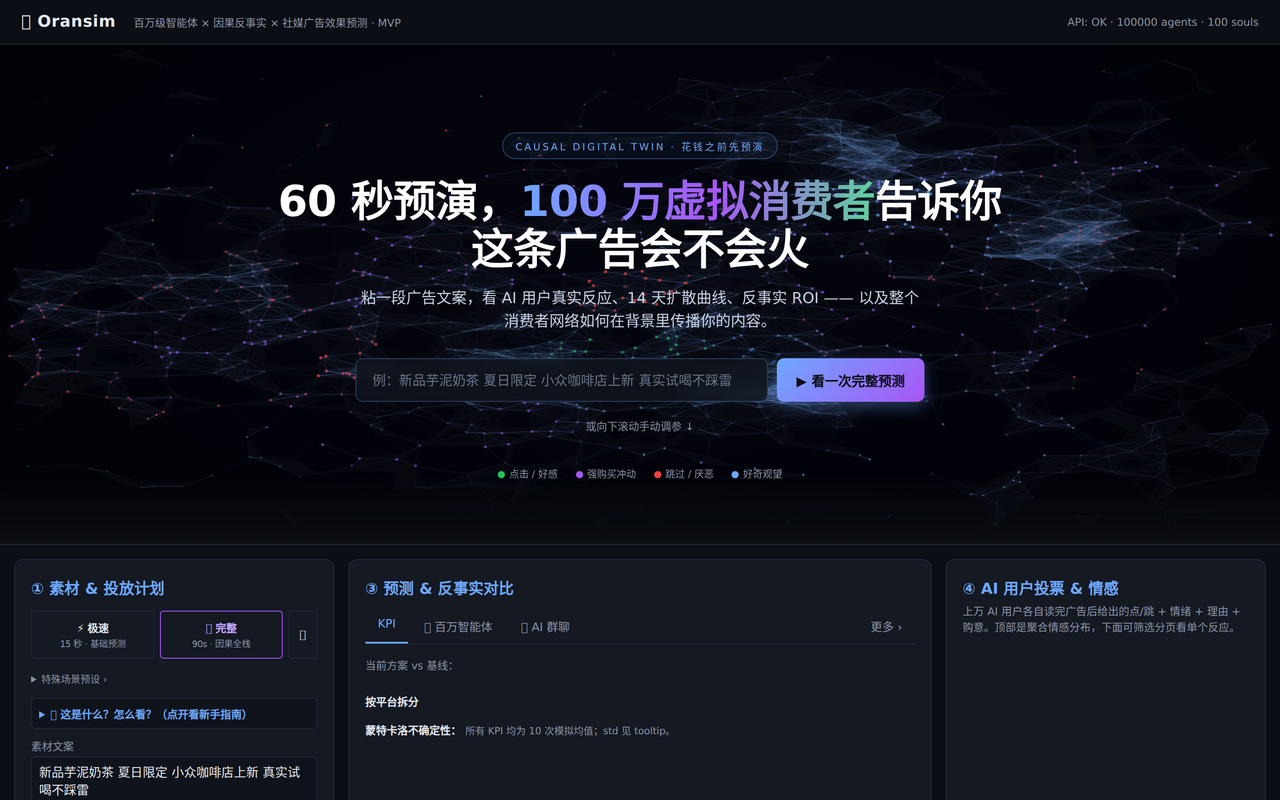
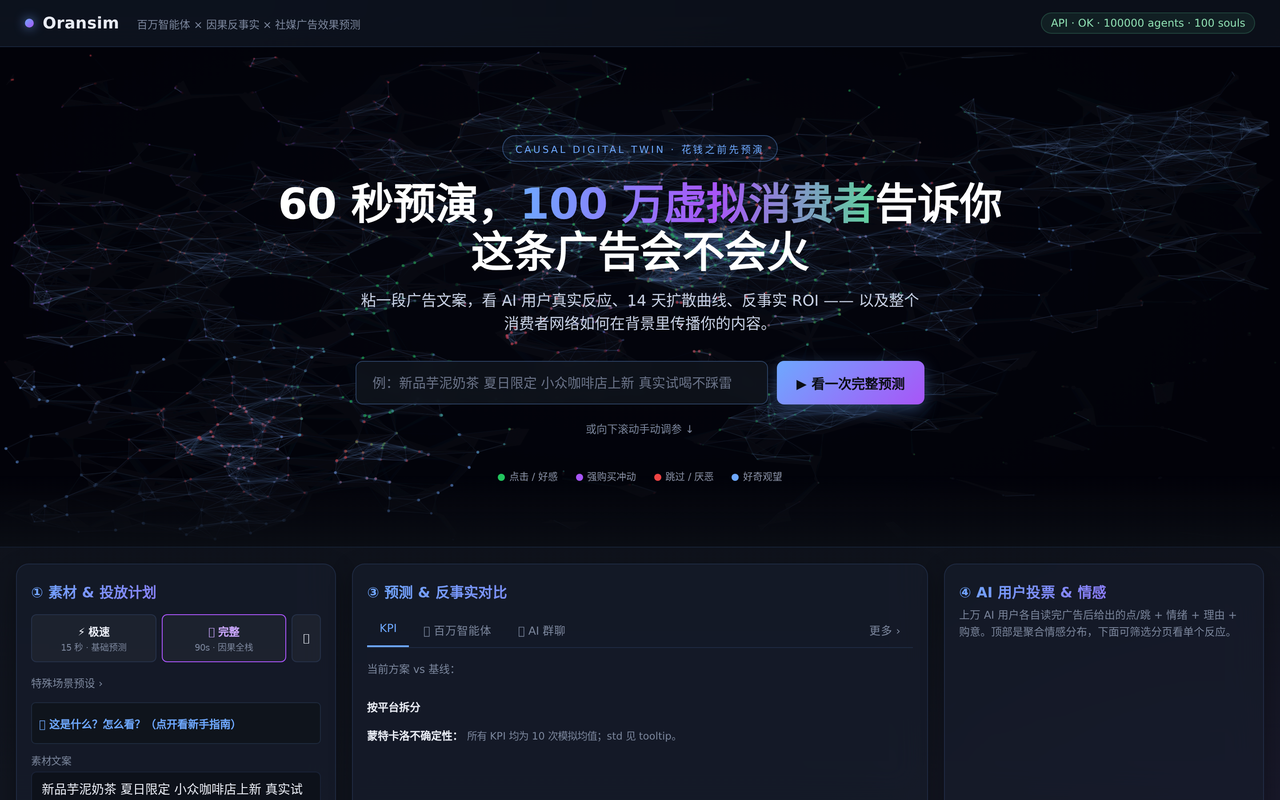
前端 fancy CSS + 叙事版舆论波 port 到开源版
和内部版看齐：glass panel + 渐变标题 + logo dot + API pill + 按钮 hover 抬升 + 滑块发光 + KPI 渐变数字。animateSociety 从 8 秒单调版改成 12 秒三幕剧（种子/一级/级联）+ 实时触达计数。顺便重截了 3 张 README 截图。

diff --git a/frontend/index.html b/frontend/index.html
@@ -6,56 +6,225 @@
 <meta name="viewport" content="width=device-width,initial-scale=1">
 <style>
   :root {
-    --bg:#0b0e14; --panel:#141922; --border:#222a38; --fg:#e6e8ee;
-    --muted:#8b93a7; --accent:#6ea8fe; --good:#5ed39b; --bad:#ff7a85; --warn:#ffc857;
+    --bg:#0a0d14; --bg-2:#11151f;
+    --panel: rgba(22, 28, 42, 0.72);
+    --panel-solid:#141a28;
+    --border: rgba(110, 168, 254, 0.12);
+    --border-strong: rgba(110, 168, 254, 0.25);
+    --fg:#e9ecf4; --fg-dim:#c3cad9;
+    --muted:#7b869c;
+    --accent:#6ea8fe; --accent-2:#a855f7;
+    --good:#22c55e; --bad:#ef4444; --warn:#f5b542;
+    --shadow-sm: 0 2px 8px rgba(0,0,0,.25);
+    --shadow-md: 0 8px 24px rgba(0,0,0,.35);
+    --shadow-glow: 0 0 40px rgba(110,168,254,.15);
+    --r-lg: 14px; --r-md: 10px; --r-sm: 6px;
+    --grad-primary: linear-gradient(135deg, #6ea8fe 0%, #a855f7 100%);
   }
   * { box-sizing:border-box; }
-  body { margin:0; font-family: -apple-system,"PingFang SC",BlinkMacSystemFont,"Segoe UI",sans-serif;
-         background:var(--bg); color:var(--fg); font-size:14px; }
-  header { padding:14px 24px; border-bottom:1px solid var(--border); display:flex; align-items:center; gap:20px; }
-  header h1 { font-size:18px; margin:0; font-weight:600; letter-spacing:0.5px; }
-  header .tag { color:var(--muted); font-size:12px; }
-  main { display:grid; grid-template-columns: 360px 1fr 360px; gap:16px; padding:16px; height: calc(100vh - 54px); overflow:hidden; }
-  .panel { background:var(--panel); border:1px solid var(--border); border-radius:10px; padding:18px; overflow:auto; }
-  .panel h3 { margin:0 0 14px; font-size:17px; color:var(--accent); font-weight:600; letter-spacing:0.1px; }
-  .panel h3 + .hint, .panel h3 + .sub { font-size:12px; color:var(--muted); margin-top:-8px; margin-bottom:10px; }
-  label { display:block; margin:8px 0 4px; color:var(--muted); font-size:12px; }
-  input[type=text], textarea, select, input[type=number] {
-    width:100%; background:#0f141c; color:var(--fg); border:1px solid var(--border);
-    border-radius:4px; padding:6px 8px; font: inherit;
+  html, body { margin:0; padding:0; }
+  body {
+    font-family: -apple-system, "PingFang SC", BlinkMacSystemFont, "Segoe UI", "Inter", sans-serif;
+    font-size: 14px;
+    color: var(--fg);
+    background:
+      radial-gradient(1200px 800px at 10% -10%, rgba(110,168,254,.08), transparent 60%),
+      radial-gradient(900px 700px at 100% 110%, rgba(168,85,247,.06), transparent 60%),
+      linear-gradient(180deg, var(--bg) 0%, var(--bg-2) 100%);
+    background-attachment: fixed;
+    min-height: 100vh;
   }
-  textarea { resize:vertical; min-height:64px; }
-  button { background:var(--accent); color:#0b0e14; border:0; border-radius:4px;
-           padding:8px 14px; font-weight:600; cursor:pointer; }
-  button:hover { background:#9ec1ff; }
-  button.secondary { background:transparent; color:var(--fg); border:1px solid var(--border); }
-  .kpi-grid { display:grid; grid-template-columns:repeat(3,1fr); gap:8px; margin:10px 0; }
-  .kpi { background:#0f141c; padding:10px; border-radius:6px; text-align:center; }
-  .kpi .v { font-size:20px; font-weight:700; }
-  .kpi .l { font-size:11px; color:var(--muted); margin-top:3px; }
-  .kpi .d { font-size:11px; margin-top:2px; }
-  .delta-up { color:var(--good); }
-  .delta-down { color:var(--bad); }
-  .slider-row { display:grid; grid-template-columns: 70px 1fr 50px; gap:8px; align-items:center; margin:8px 0; }
-  input[type=range] { width:100%; }
-  .soul { background:#0f141c; padding:8px 10px; margin:6px 0; border-radius:6px; border-left:3px solid var(--accent); font-size:13px; }
-  .soul.skip { border-left-color:var(--bad); }
-  .soul .oneliner { color:var(--muted); font-size:11px; margin-bottom:3px; }
-  .soul .reason { color:var(--fg); }
-  .soul .comment { color:var(--warn); font-style:italic; font-size:12px; margin-top:2px; }
-  svg { width:100%; height:100%; }
-  .node rect { fill:#0f141c; stroke:var(--border); stroke-width:1; }
-  .node.intervenable rect { stroke:var(--accent); }
-  .node text { fill:var(--fg); font-size:11px; }
-  .edge { stroke:var(--border); stroke-width:1.2; fill:none; marker-end:url(#arr); }
-  .badge { display:inline-block; background:#23304a; color:var(--accent); padding:2px 6px; border-radius:3px; font-size:11px; }
-  .seg { font-size:12px; padding:4px 6px; background:#0f141c; border-radius:4px; margin:3px 0; display:flex; justify-content:space-between; }
-  .tab-row { display:flex; gap:4px; margin-bottom:14px; border-bottom:1px solid var(--border); }
-  .tab { padding:8px 14px; cursor:pointer; color:var(--muted); border-bottom:2px solid transparent; font-size:13px; font-weight:500; transition:color 120ms ease; }
-  .tab:hover { color:var(--fg); }
-  .tab.active { color:var(--accent); border-bottom-color:var(--accent); }
-  .hint { color:var(--muted); font-size:11px; margin-top:4px; line-height:1.5; }
-  #log { font-size:11px; color:var(--muted); max-height:160px; overflow:auto; font-family: Menlo, monospace; padding:6px; background:#0b0e14; border-radius:4px; margin-top:6px; }
+  header {
+    padding: 14px 28px; display: flex; align-items: center; gap: 20px;
+    backdrop-filter: blur(14px) saturate(1.4);
+    -webkit-backdrop-filter: blur(14px) saturate(1.4);
+    background: rgba(12, 16, 26, 0.72);
+    border-bottom: 1px solid var(--border);
+    position: sticky; top: 0; z-index: 100;
+  }
+  header h1 {
+    font-size: 18px; margin: 0; font-weight: 600; letter-spacing: 0.2px;
+    display: flex; align-items: center; gap: 10px;
+  }
+  .logo-dot {
+    width: 10px; height: 10px; border-radius: 50%;
+    background: var(--grad-primary);
+    box-shadow: 0 0 12px rgba(110,168,254,.8);
+  }
+  header .tag { color: var(--muted); font-size: 12px; }
+  header .api-pill {
+    padding: 4px 10px; border-radius: 999px;
+    background: rgba(94,211,155,.08); border: 1px solid rgba(94,211,155,.2);
+    color: #8fe0b3;
+  }
+
+  main { display:grid; grid-template-columns: 360px 1fr 360px; gap:18px; padding:18px; overflow:hidden; }
+
+  .panel {
+    background: var(--panel);
+    backdrop-filter: blur(18px) saturate(1.3);
+    -webkit-backdrop-filter: blur(18px) saturate(1.3);
+    border: 1px solid var(--border);
+    border-radius: var(--r-lg);
+    padding: 18px 16px;
+    overflow: auto;
+    box-shadow: var(--shadow-md);
+    transition: border-color 180ms ease;
+  }
+  .panel:hover { border-color: var(--border-strong); }
+  .panel h3 {
+    margin: 0 0 14px; font-size: 16px; font-weight: 600; letter-spacing: 0.1px;
+    background: var(--grad-primary); -webkit-background-clip: text;
+    background-clip: text; color: transparent;
+  }
+  .panel h3 + .hint, .panel h3 + .sub { font-size: 12px; color: var(--muted); margin-top:-8px; margin-bottom:10px; }
+
+  label {
+    display: block; margin: 10px 0 5px;
+    color: var(--muted); font-size: 11.5px;
+    letter-spacing: 0.3px; text-transform: uppercase; font-weight: 500;
+  }
+  input[type=text], textarea, select, input[type=number] {
+    width: 100%; background: rgba(10,13,20,.65); color: var(--fg);
+    border: 1px solid var(--border); border-radius: var(--r-sm);
+    padding: 8px 11px; font: inherit;
+    transition: border-color 160ms, background 160ms;
+  }
+  input[type=text]:focus, textarea:focus, select:focus, input[type=number]:focus {
+    outline: none; border-color: var(--accent); background: rgba(14,19,30,.85);
+  }
+  textarea { resize: vertical; min-height: 72px; }
+
+  button {
+    background: var(--grad-primary); color: #0a0d14;
+    border: 0; border-radius: var(--r-sm);
+    padding: 9px 16px; font-weight: 600; font-size: 13px;
+    cursor: pointer;
+    transition: transform 120ms ease, box-shadow 160ms ease, filter 120ms;
+    box-shadow: 0 4px 14px rgba(110,168,254,.25);
+  }
+  button:hover { transform: translateY(-1px); box-shadow: 0 6px 20px rgba(110,168,254,.38); filter: brightness(1.08); }
+  button:active { transform: translateY(0); }
+  button.secondary {
+    background: rgba(255,255,255,.04); color: var(--fg);
+    border: 1px solid var(--border); box-shadow: none; font-weight: 500;
+  }
+  button.secondary:hover {
+    background: rgba(110,168,254,.08); border-color: var(--border-strong);
+    transform: translateY(-1px); box-shadow: var(--shadow-sm);
+  }
+
+  .kpi-grid { display: grid; grid-template-columns: repeat(3,1fr); gap: 10px; margin: 12px 0; }
+  .kpi {
+    background: rgba(14,19,30,.7); border: 1px solid var(--border);
+    padding: 14px 10px; border-radius: var(--r-md);
+    text-align: center;
+    transition: transform 180ms ease, border-color 180ms ease;
+    position: relative; overflow: hidden;
+  }
+  .kpi::before {
+    content: ""; position: absolute; inset: 0; border-radius: var(--r-md);
+    background: linear-gradient(135deg, rgba(110,168,254,.06), transparent 60%);
+    pointer-events: none;
+  }
+  .kpi:hover { transform: translateY(-2px); border-color: var(--border-strong); }
+  .kpi .v {
+    font-size: 22px; font-weight: 700; letter-spacing: -0.3px;
+    background: var(--grad-primary); -webkit-background-clip: text;
+    background-clip: text; color: transparent;
+  }
+  .kpi .l { font-size: 10.5px; color: var(--muted); margin-top: 4px; text-transform: uppercase; letter-spacing: 0.4px; }
+  .kpi .d { font-size: 11px; margin-top: 3px; font-weight: 500; }
+  .delta-up { color: var(--good); }
+  .delta-down { color: var(--bad); }
+
+  .slider-row { display: grid; grid-template-columns: 80px 1fr 56px; gap: 10px; align-items: center; margin: 10px 0; }
+  .slider-row > span:first-child { font-size: 12px; color: var(--muted); }
+  .slider-row > span:last-child  { font-size: 12px; color: var(--fg); font-weight: 500; text-align: right; }
+  input[type=range] {
+    width: 100%; height: 4px; appearance: none; -webkit-appearance: none;
+    background: var(--border-strong); border-radius: 999px;
+  }
+  input[type=range]::-webkit-slider-thumb {
+    appearance: none; -webkit-appearance: none;
+    width: 14px; height: 14px; border-radius: 50%;
+    background: var(--accent); cursor: pointer;
+    box-shadow: 0 0 8px rgba(110,168,254,.6);
+  }
+  input[type=range]::-moz-range-thumb {
+    width: 14px; height: 14px; border-radius: 50%;
+    background: var(--accent); border: 0; cursor: pointer;
+    box-shadow: 0 0 8px rgba(110,168,254,.6);
+  }
+
+  .soul {
+    background: rgba(14,19,30,.65); padding: 10px 12px; margin: 8px 0;
+    border-radius: var(--r-md);
+    border-left: 3px solid var(--accent);
+    font-size: 13px; line-height: 1.55;
+    transition: background 160ms;
+  }
+  .soul:hover { background: rgba(18,24,38,.85); }
+  .soul.skip { border-left-color: var(--bad); }
+  .soul .oneliner { color: var(--muted); font-size: 11px; margin-bottom: 4px; }
+  .soul .reason { color: var(--fg); }
+  .soul .comment { color: var(--warn); font-style: italic; font-size: 12px; margin-top: 3px; }
+
+  svg { width: 100%; height: 100%; }
+  .node rect { fill: rgba(14,19,30,.8); stroke: var(--border); stroke-width: 1; }
+  .node.intervenable rect { stroke: var(--accent); }
+  .node text { fill: var(--fg); font-size: 11px; }
+  .edge { stroke: rgba(110,168,254,.3); stroke-width: 1.2; fill: none; marker-end: url(#arr); }
+
+  .badge {
+    display: inline-block; padding: 2px 8px; border-radius: 999px;
+    font-size: 11px; font-weight: 500;
+    background: rgba(110,168,254,.12); color: var(--accent);
+    border: 1px solid rgba(110,168,254,.2);
+  }
+  .seg {
+    font-size: 12px; padding: 6px 10px;
+    background: rgba(14,19,30,.6); border: 1px solid var(--border);
+    border-radius: var(--r-sm); margin: 4px 0;
+    display: flex; justify-content: space-between;
+    transition: border-color 160ms;
+  }
+  .seg:hover { border-color: var(--border-strong); }
+
+  .tab-row { display: flex; gap: 2px; margin-bottom: 14px; border-bottom: 1px solid var(--border); position: relative; }
+  .tab {
+    padding: 8px 14px; cursor: pointer; color: var(--muted);
+    border-bottom: 2px solid transparent;
+    font-size: 12.5px; font-weight: 500;
+    transition: color 160ms, border-color 160ms;
+    white-space: nowrap;
+  }
+  .tab:hover { color: var(--fg); }
+  .tab.active { color: var(--accent); border-bottom-color: var(--accent); }
+
+  .hint { color: var(--muted); font-size: 11.5px; margin-top: 6px; line-height: 1.6; }
+
+  #log {
+    font-size: 11px; color: var(--muted);
+    max-height: 160px; overflow: auto;
+    font-family: "JetBrains Mono", Menlo, monospace;
+    padding: 8px 10px; background: rgba(5,8,14,.7);
+    border: 1px solid var(--border); border-radius: var(--r-sm);
+    margin-top: 8px;
+  }
+
+  details > summary {
+    cursor: pointer; padding: 6px 0; font-size: 12px;
+    color: var(--accent); list-style: none; transition: color 160ms;
+  }
+  details > summary::-webkit-details-marker { display: none; }
+  details > summary:hover { color: #9ec1ff; }
+  details[open] > summary { margin-bottom: 8px; }
+
+  .panel::-webkit-scrollbar { width: 6px; height: 6px; }
+  .panel::-webkit-scrollbar-track { background: transparent; }
+  .panel::-webkit-scrollbar-thumb { background: rgba(110,168,254,.18); border-radius: 999px; }
+  .panel::-webkit-scrollbar-thumb:hover { background: rgba(110,168,254,.35); }
 
   /* ── Hero section (T-A) ─────────────────────────────────────────────── */
   #hero {
@@ -187,9 +356,9 @@
 <body>
 
 <header>
-  <h1>🧠 Oransim</h1>
-  <span class="tag">百万级智能体 × 因果反事实 × 社媒广告效果预测 · MVP</span>
-  <span style="margin-left:auto" class="tag">API: <span id="api-status">…</span></span>
+  <h1><span class="logo-dot"></span>Oransim</h1>
+  <span class="tag">百万智能体 × 因果反事实 × 社媒广告效果预测</span>
+  <span style="margin-left:auto" class="tag api-pill">API · <span id="api-status">…</span></span>
 </header>
 
 <!-- ── Hero (T-A) · 100 万智能体意见传播背景 + 单 CTA ─────────────────── -->
@@ -2626,19 +2795,57 @@ function stopOpinionCascade(key) {
   CASCADE_INSTANCES.delete(k);
 }
 
-// ─── 「🌊 舆论波」按钮：运行新引擎 8 秒版 ─────────────────────────────
+// ─── 「🌊 舆论波」按钮：12 秒三幕剧叙事版 ─────────────────────────────
+// KOL 种子发声 → 一级扩散 → 级联触发，每一幕都说清楚在做什么 + 实时
+// 触达计数。粒子同时 drift + sparse connect，观感更"活"。
 function animateSociety() {
   if (!SOCIETY_DATA) { renderSociety(30000); return; }
   const c = document.getElementById("society-canvas");
+  const infected = new Set();
+  const t0 = performance.now();
+
   const key = runOpinionCascade(c, SOCIETY_DATA, {
-    initialWaves: 6, primaryBurst: 3, primaryIntervalMs: 1800,
+    initialWaves: 5, primaryBurst: 2, primaryIntervalMs: 2200,
+    waveSpeed: 0.16, waveThick: 0.04, waveTau: 3.5,
+    cascadeProb: 0.005, maxWaves: 60,
+    trailFill: 'rgba(10,14,22,0.14)',
+    drift: true, driftSpeed: 0.008,
+    connect: { threshold: 0.048, alphaMax: 0.15, rgb: "110,150,200" },
   });
-  const el = document.getElementById("society-stats");
-  if (el) el.innerHTML = "🌊 意见在 100 万智能体网络传播中（8 秒，含级联触发）...";
+
+  const state = CASCADE_INSTANCES.get(key);
+  const statsEl = document.getElementById("society-stats");
+  const phases = [
+    { t: 0,    text: "🌊 <b>Act I</b> · 5 个 KOL 种子发声（四种立场按色）· <span style='color:#22c55e'>绿</span>=好感 <span style='color:#a855f7'>紫</span>=强购意 <span style='color:#ef4444'>红</span>=厌恶 <span style='color:#6ea8fe'>蓝</span>=观望" },
+    { t: 2500, text: "⚡ <b>Act II</b> · 一级扩散 · 波前碰到粉丝就点亮立场色 · 粒子漂移模拟 persona 在 interest 空间流动" },
+    { t: 5500, text: "🔥 <b>Act III</b> · 级联触发 · 被感染的粉丝以 0.5% 概率晋升为二级波源（黑产式二次传播）" },
+    { t: 9000, text: "🎯 <b>收束</b> · 观察四色倾向在星图里的地缘分布，以及谁被级联到、谁一直没被说服" },
+  ];
+
+  const heartbeat = setInterval(() => {
+    if (state?._glowBuf) {
+      for (let i = 0; i < state._glowBuf.length; i++) {
+        if (state._glowBuf[i] > 0.3) infected.add(i);
+      }
+    }
+    const elapsed = performance.now() - t0;
+    for (let i = phases.length - 1; i >= 0; i--) {
+      if (elapsed >= phases[i].t) {
+        const total = SOCIETY_DATA.points.length;
+        const pct = (infected.size / total * 100).toFixed(1);
+        statsEl.innerHTML = phases[i].text + `<br><span style="color:var(--muted); font-size:11px">已触达 ${infected.size.toLocaleString()} / ${total.toLocaleString()} 粒子（${pct}%） · 活跃波源 ${state?.waves?.length ?? 0}</span>`;
+        break;
+      }
+    }
+  }, 200);
+
   setTimeout(() => {
+    clearInterval(heartbeat);
     stopOpinionCascade(key);
-    if (el) el.innerHTML += "<br>✅ 传播结束 · 观察级联如何从 soul agent 扩散";
-  }, 8000);
+    const total = SOCIETY_DATA.points.length;
+    const pct = (infected.size / total * 100).toFixed(1);
+    statsEl.innerHTML = `✅ <b>12 秒传播结束</b>：${infected.size.toLocaleString()} / ${total.toLocaleString()} 粒子被触达（${pct}%）· 级联贡献约 ${Math.max(0, infected.size - 5 * 400)} 个额外触达。<br><span class="hint">这就是为什么预算集中投少数 KOL，触达面远超粉丝数之和——网络效应。</span>`;
+  }, 12000);
 }
 
 async function refreshUEB() {
